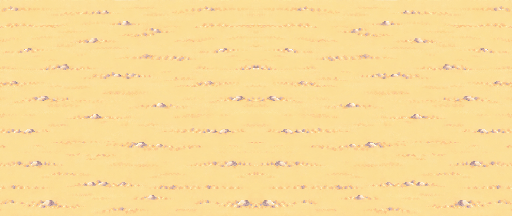
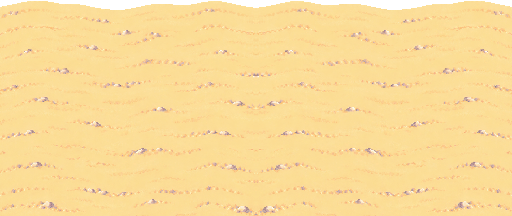
fix(world02): 모래 바닥 윗면에 굴곡 추가
Plan: 2026-10-14-world02-sand-floor-and-stage-title
Phase: P01-sand-floor-and-title
Task: T01-sand-floor-asset

- 기존 밝은 모래 색감과 자갈 무늬 유지
- 1~10px 윗면 굴곡과 끊김 없는 좌우 경계 반영

diff --git a/.memory/decisions/2026-10-14-world02-sand-floor-and-stage-title.md b/.memory/decisions/2026-10-14-world02-sand-floor-and-stage-title.md
@@ -13,11 +13,13 @@
 - **Chosen (User)**: 조금 울퉁불퉁한 모래사장 바닥 이미지 한 장을 새로 만든다.
 - **Chosen (Codebase)**: 월드 2의 화창한 낮 배경·컷신 모래 색과 맞는 좌우 반복 PNG 한 장을 바닥 표면과 단면에 사용한다. 바닥 이미지에는 장애물·고양이·놀이기구를 굽지 않는다.
 - **Chosen (User, 2026-10-19)**: 제공한 놀이터 화면의 옅은 노란 모래와 작은 연보라색 자갈 무늬에 맞춘다. 진한 주황색 지층 무늬는 사용하지 않는다.
+- **Chosen (User, 2026-10-19 후속 수정)**: 작은 입자 무늬뿐 아니라 윗면의 실루엣도 눈에 보이게 울퉁불퉁해야 한다. 최종 512×216 이미지 윗면에 1~10px 높이의 굴곡을 넣고 좌우 경계 높이는 맞춘다.
 - **Rationale**: 기존 원경·중경·전경은 이미 있지만 플레이 충돌 바닥의 별도 이미지는 없다. 장애물은 현재 런타임 오브젝트로 존재한다.
 
 ## D03. 충돌과 레이어
 
 - **Chosen (Inferred implementation)**: 첫 스테이지의 임시 구간 발판을 x=0..3840, 상단 y=504의 단일 연속 충돌 발판으로 바꾸고, 같은 위치에 모래 이미지를 반복해서 그린다. 기존 함정·적·코인·체크포인트·출구 정의는 유지한다.
+- **Chosen (후속 수정)**: 충돌 높이 y=504는 유지하고, 이미지는 y=499부터 그려 굴곡이 코기 발 위아래에 걸치게 한다. 이미지 높이는 화면 아래까지 221px로 표시한다.
 - **Rationale**: 기존 `createSegment()`의 발판은 x=16을 Phaser 사각형의 중심으로 사용하므로 구간마다 틈과 겹침이 있다. 이미지 전체를 연속으로 그리면서 이 충돌을 그대로 두면 코기가 보이는 바닥 사이로 떨어질 수 있다.
 
 ## D04. 이름 변경

diff --git a/.memory/phases/2026-10-14-world02-sand-floor-and-stage-title/P01-sand-floor-and-title/T01-sand-floor-asset.md b/.memory/phases/2026-10-14-world02-sand-floor-and-stage-title/P01-sand-floor-and-title/T01-sand-floor-asset.md
@@ -26,7 +26,7 @@
 
 #### Data & Schema Fields
 
-- PNG: 폭 `512`, 높이 `216`, alpha 채널 있음. 좌우 첫/끝 열의 모래 색과 표면 높이가 이어져야 한다. 위쪽 0~4px의 투명/모래 경계만 최대 ±3px 정도 자연스럽게 굴곡지고, 아래쪽은 밝은 노란 모래와 작은 자갈 무늬로 채운다.
+- PNG: 폭 `512`, 높이 `216`, alpha 채널 있음. 좌우 첫/끝 열의 모래 색과 표면 높이가 이어져야 한다. 후속 수정에 따라 투명/모래 경계가 이미지 위에서 1~10px로 눈에 보이게 굴곡지고, 아래쪽은 밝은 노란 모래와 작은 자갈 무늬로 채운다.
 - 저장 파일명과 manifest URL은 정확히 `world-02-sand-floor.png`를 사용한다.
 
 #### Execution Flow / Logic
@@ -95,3 +95,8 @@ Task: T01-sand-floor-asset
 - [x] 구현 완료
 - [x] 검증 통과: 에셋 검증 60항목, PNG 크기·alpha, 타입 검사 및 시각 점검.
 - commit: `5bca24d`
+
+## 2026-10-19 윗면 굴곡 수정
+
+- 사용자 지적에 따라 평평하던 실루엣을 생성 이미지의 굴곡을 참고해 1~10px 높이로 수정했다. 기존 옅은 노랑·연보라 자갈 색을 유지한다.
+- 512×216 RGBA, 좌우 경계의 RGBA 차이 0, 이미지 아래쪽 전체 불투명, 윗면 높이 범위 1~10px를 검증했다.

diff --git a/.memory/plans/2026-10-14-world02-sand-floor-and-stage-title.md b/.memory/plans/2026-10-14-world02-sand-floor-and-stage-title.md
@@ -26,7 +26,7 @@
 
 ## Acceptance
 
-- 새 모래 PNG 한 장이 기존 컷신·플레이 배경의 밝은 모래 색과 어울리고, 좌우 반복 이음새가 눈에 띄지 않는다. 윗면은 시각적으로 조금 울퉁불퉁하지만 충돌 높이는 일정하다.
+- 새 모래 PNG 한 장이 기존 컷신·플레이 배경의 밝은 모래 색과 어울리고, 좌우 반복 이음새가 눈에 띄지 않는다. 후속 수정에 따라 윗면은 1~10px로 눈에 보이게 울퉁불퉁하지만 충돌 높이는 일정하다.
 - 월드 2 첫 스테이지의 3840px 전체에 모래 바닥이 보이며 코기가 중간 섹션 경계와 출구까지 떨어지지 않고 걸을 수 있다. 함정·적은 모래 위에 보여야 한다.
 - 첫 스테이지 HUD에는 `지옥의 동네 놀이터`가 표시된다. 월드 ID·스테이지 ID, 다른 스테이지 이름과 월드 2 진입 연출은 유지된다.
 - 실제 Tiled 맵이 나중에 추가되면 임시 모래 렌더링이 중복되지 않는다.
